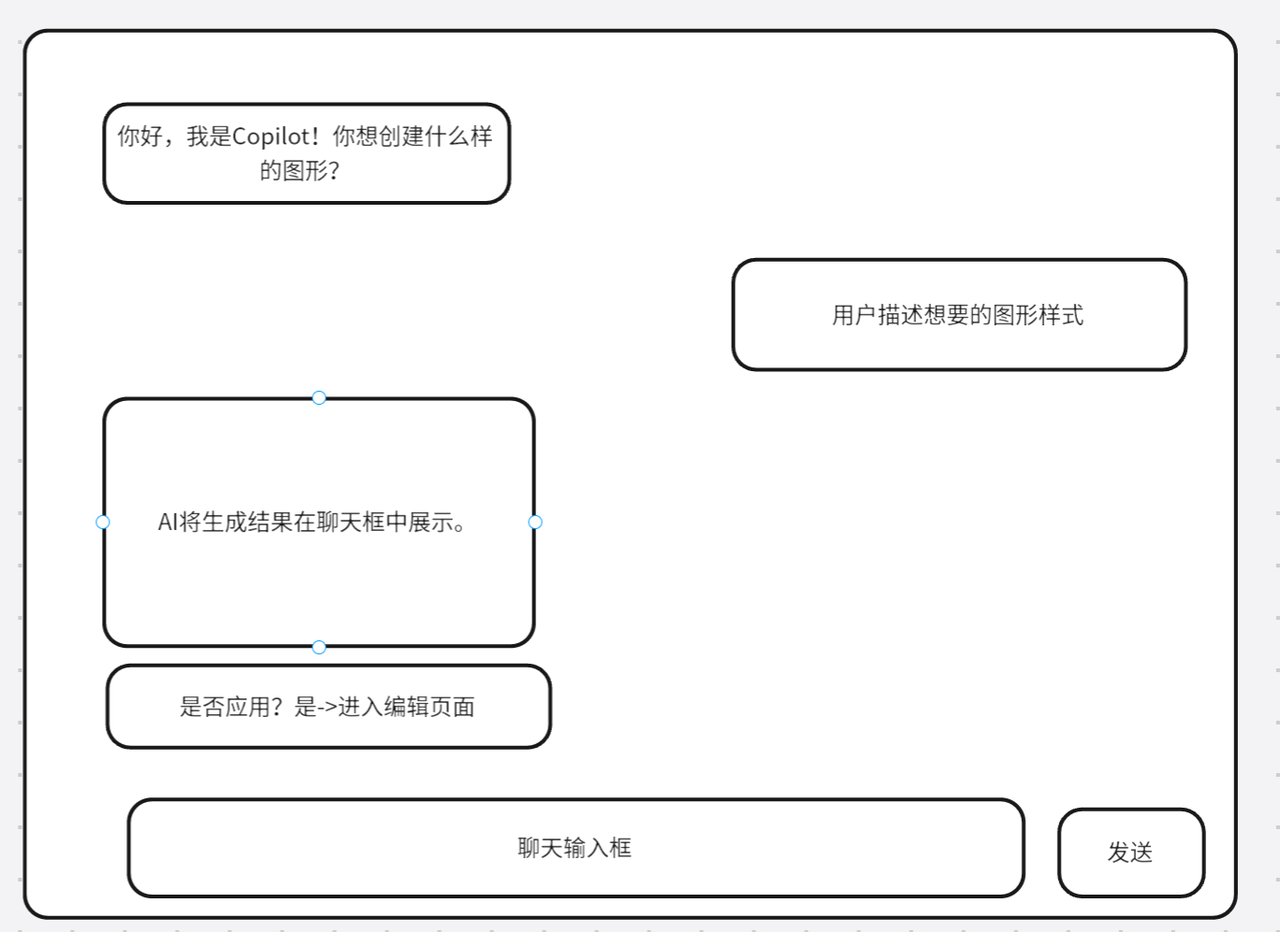
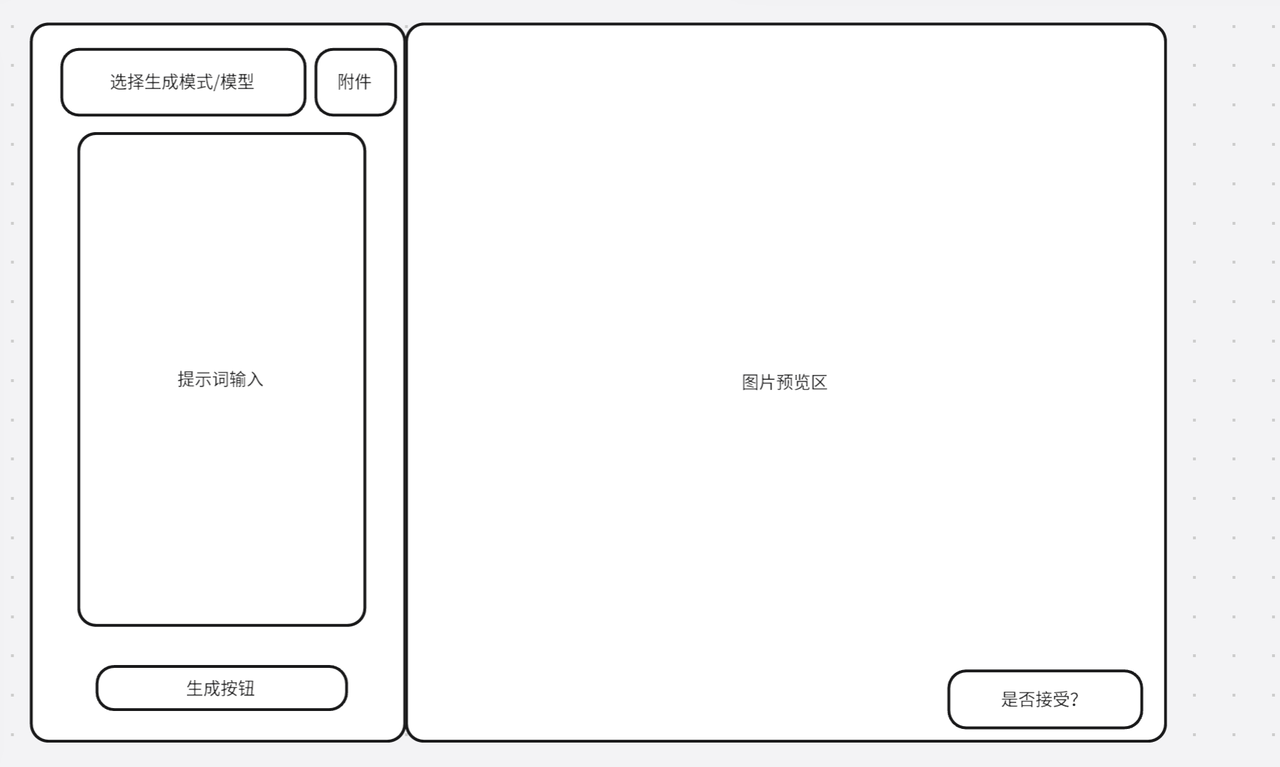
docs(product):modify painter doc

diff --git a/docs/product/painter/painter.md b/docs/product/painter/painter.md
@@ -1,7 +1,7 @@
 # 1. 产品概述与背景
 
 ## 1.1 项目背景
-* 当前平台概述：Xbuilder 是一个开源的、面向青少年的在线游戏编辑平台。
+* 当前平台概述：XBuilder 是一个开源的、面向青少年的在线游戏编辑平台。
 * 用户痛点与机遇：
   * 大量用户反映需要在线编辑上传的图片，或者在线从零绘制他们的精灵或者背景，这个功能是scratch创建编辑精灵/背景的核心功能，可以大幅简化游戏的制作，让用户更多时间留存于xbuilder平台，而不是PS等图片设计软件。画板平台还可以接入AI Agent，从而创造新的增值服务。
 
@@ -13,9 +13,11 @@
   * 增强玩家间的互动和个性化表达，接入 AI Agent 体系
 
 ## 1.3 市场与竞品基准
-* Scratch：在背景图，角色图的编辑上，Scratch实现了非常强大的绘画功能。不仅有基础的画笔，绘制，填色等功能，还实现了复杂的矢量图绘制，曲线变化等功能，可以快速绘制出游戏人物。但是，Scratch并没有集成AI助手功能。
-* CodeMonkey：CodeMonkey免费用户无法进行自由创作。
-* Canva：Canva是一个简单，强大的图形绘制程序。提供了非常复杂的图形绘制，产品设计，图层控制等功能。还提供了付费模板，素材库，AI生成等增值服务。但是其没有实现简单易用的矢量图绘制功能，无法简单绘制出美观的游戏角色。
+1. 绘图领域
+   - Scratch：在背景图，角色图的编辑上，Scratch实现了非常强大的绘画功能。不仅有基础的画笔，绘制，填色等功能，还实现了复杂的矢量图绘制，曲线变化等功能，可以快速绘制出游戏人物。但是，Scratch并没有集成AI助手功能。
+   - CodeMonkey：CodeMonkey免费用户无法进行自由创作。
+   - Canva：Canva是一个简单，强大的图形绘制程序。提供了非常复杂的图形绘制，产品设计，图层控制等功能。还提供了付费模板，素材库，AI生成等增值服务。但是其没有实现简单易用的矢量图绘制功能，无法简单绘制出美观的游戏角色。
+2. AI生成图片领域
 
 # 2. 产品目标
 * 实现基础画板功能：包括画线，图形绘制，橡皮擦，填色,添加文字，拖拽位置等。
@@ -43,22 +45,22 @@
 # 4. 功能详细设计
 
 ## 4.1 用户流程图
-- 编辑精灵/背景图
-1. 进入编辑界面
+- 创建新的精灵/背景时自由绘制
+1. 进入绘制页面
 ![项目设计图4-1-1](./assets/img-4-1-1.png)
 ![项目设计图4-1-2](./assets/img-4-1-2.png)
-2. 进行修改
-- AI创作素材
-  在添加精灵/背景时直接选择AI生成
+
+- 编辑精灵/背景图
+1. 进入编辑界面
 ![项目设计图4-1-7](./assets/img-4-1-7.png)
+2. 进行修改
+- 画板工具——AI助手
+  点击AI助手按钮
 ![项目设计图4-1-3](./assets/img-4-1-3.png)
-  与AI展开对话，不断提出指令，直到创建出满意的图片
+- 弹出AI生成工具，AI可以生成位图或矢量图，用户可以自行选择生成位图或矢量图的模型。
 ![项目设计图4-1-4](./assets/img-4-1-4.png)
-- AI修改现有精灵/背景
-  点击AI修改按钮
-![项目设计图4-1-5](./assets/img-4-1-5.png)
-  侧边栏与AI对话，AI通过MCP调用本地工具直接修改图形/文生图，用户与AI不断对话，直到修改/生成出合适的图片。
-![项目设计图4-1-6](./assets/img-4-1-6.png)
+- 用户可以在附件中选择本地上传/将当前绘制的内容作为附件，给AI作为基础进行创作。
+  用户可以如果接受，图片会被应用到编辑区。如果不接受，则可以输入提示词重新生成。
 
 ## 4.2 界面与交互设计
 
